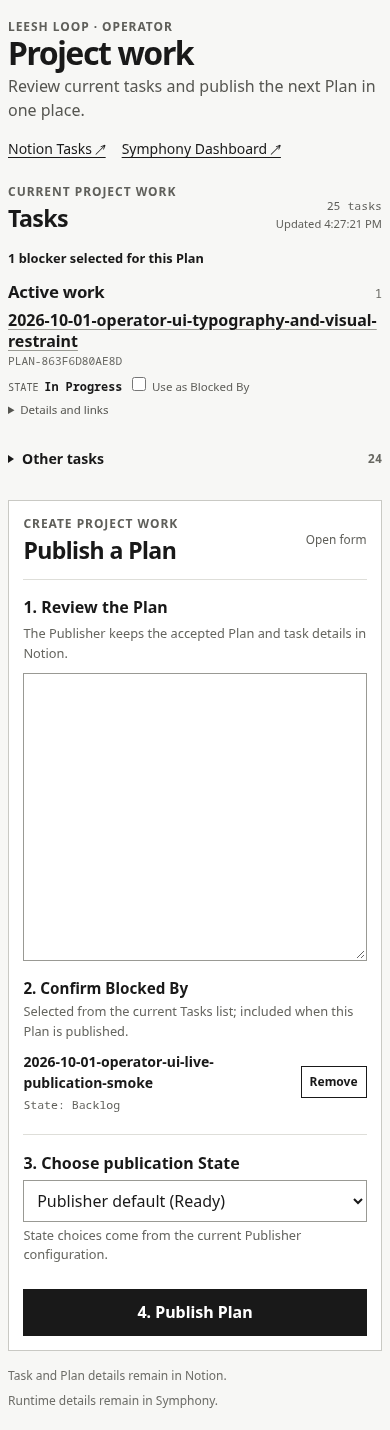
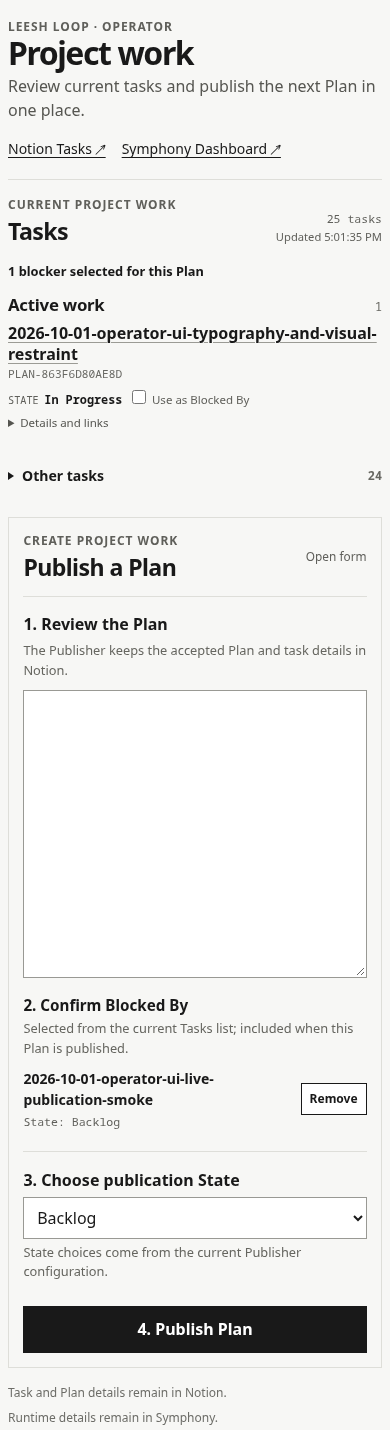
Refine operator UI workspace balance

diff --git a/operator/ui/src/style.css b/operator/ui/src/style.css
@@ -15,15 +15,15 @@ button, textarea, select { font: inherit; color: inherit; }
 a { color: inherit; text-decoration-thickness: 1px; text-underline-offset: .2em; }
 a:hover { text-decoration-thickness: 2px; }
 .page-shell { width: min(100% - 2.5rem, 90rem); margin: 0 auto; padding: clamp(1.25rem, 4vw, 3.25rem) 0; }
-.page-header { display: flex; align-items: flex-end; justify-content: space-between; gap: 2rem; padding-bottom: 1.5rem; }
+.page-header { display: flex; align-items: flex-end; justify-content: space-between; gap: 2rem; padding-bottom: 1.75rem; border-bottom: 1px solid #deded9; }
 .eyebrow, .meta-label { margin: 0; color: #5f5f5a; font-size: .75rem; font-weight: 650; letter-spacing: .08em; text-transform: uppercase; }
 h1, h2, h3, h4, p { margin-top: 0; }
 h1 { margin-bottom: .25rem; font-size: clamp(2rem, 3.2vw, 3rem); line-height: 1.08; letter-spacing: -.045em; }
 .lede { max-width: 42rem; margin-bottom: 0; color: #565651; }
 .related-work { display: flex; flex-wrap: wrap; gap: .55rem 1.25rem; font-size: .875rem; }
-.work-layout { display: grid; grid-template-columns: minmax(0, 1.45fr) minmax(19rem, .8fr); align-items: start; gap: 2rem; padding-top: 1rem; }
+.work-layout { display: grid; grid-template-columns: minmax(0, 1.45fr) minmax(19rem, .8fr); align-items: start; gap: 2rem; padding-top: 1.5rem; }
 .task-surface { min-width: 0; }
-.surface { min-width: 0; padding: clamp(1rem, 2vw, 1.5rem); border: 1px solid #c9c9c4; background: #fff; }
+.surface { min-width: 0; padding: clamp(1rem, 2vw, 1.5rem); border: 1px solid #deded9; background: transparent; }
 .surface-header { display: flex; align-items: flex-end; justify-content: space-between; gap: 1rem; margin-bottom: 1rem; }
 .surface-header .eyebrow { margin-bottom: .25rem; }
 h2 { margin-bottom: 0; font-size: 1.45rem; line-height: 1.2; letter-spacing: -.025em; }
@@ -31,11 +31,11 @@ h2 { margin-bottom: 0; font-size: 1.45rem; line-height: 1.2; letter-spacing: -.0
 .task-surface-meta { display: grid; justify-items: end; gap: .12rem; }
 .task-total { color: #5f5f5a; font-family: ui-monospace, SFMono-Regular, Menlo, Consolas, monospace; font-size: .72rem; }
 .selection-count { margin: 0 0 .8rem; font-size: .8rem; font-weight: 600; }
-.task-groups { display: grid; gap: 1.25rem; }
+.task-groups { display: grid; gap: 1.5rem; }
 .task-group-heading { display: flex; align-items: baseline; justify-content: space-between; gap: .8rem; margin-bottom: .45rem; }
 .task-group-heading h3 { margin: 0; font-size: 1.05rem; font-weight: 650; line-height: 1.25; letter-spacing: -.015em; }
 .task-group-count { flex: 0 0 auto; color: #666660; font-family: ui-monospace, SFMono-Regular, Menlo, Consolas, monospace; font-size: .74rem; }
-.task-list { display: grid; gap: .9rem; }
+.task-list { display: grid; gap: 1.15rem; }
 .task-row { min-width: 0; }
 .task-row-primary { display: grid; grid-template-columns: minmax(0, 1fr) auto; align-items: start; gap: .75rem; }
 .task-title-block { min-width: 0; }
@@ -120,8 +120,8 @@ button:disabled { cursor: progress; opacity: .7; }
 
 @media (max-width: 52rem) {
   .page-shell { width: min(100% - 1.5rem, 45rem); padding-top: 1.1rem; }
-  .page-header { align-items: flex-start; flex-direction: column; gap: 1rem; padding-bottom: 1rem; }
-  .work-layout { grid-template-columns: minmax(0, 1fr); gap: 1.5rem; padding-top: .5rem; }
+  .page-header { align-items: flex-start; flex-direction: column; gap: 1rem; padding-bottom: 1.25rem; }
+  .work-layout { grid-template-columns: minmax(0, 1fr); gap: 1.5rem; padding-top: 1rem; }
   .related-work { gap: .5rem 1rem; }
 }
 
